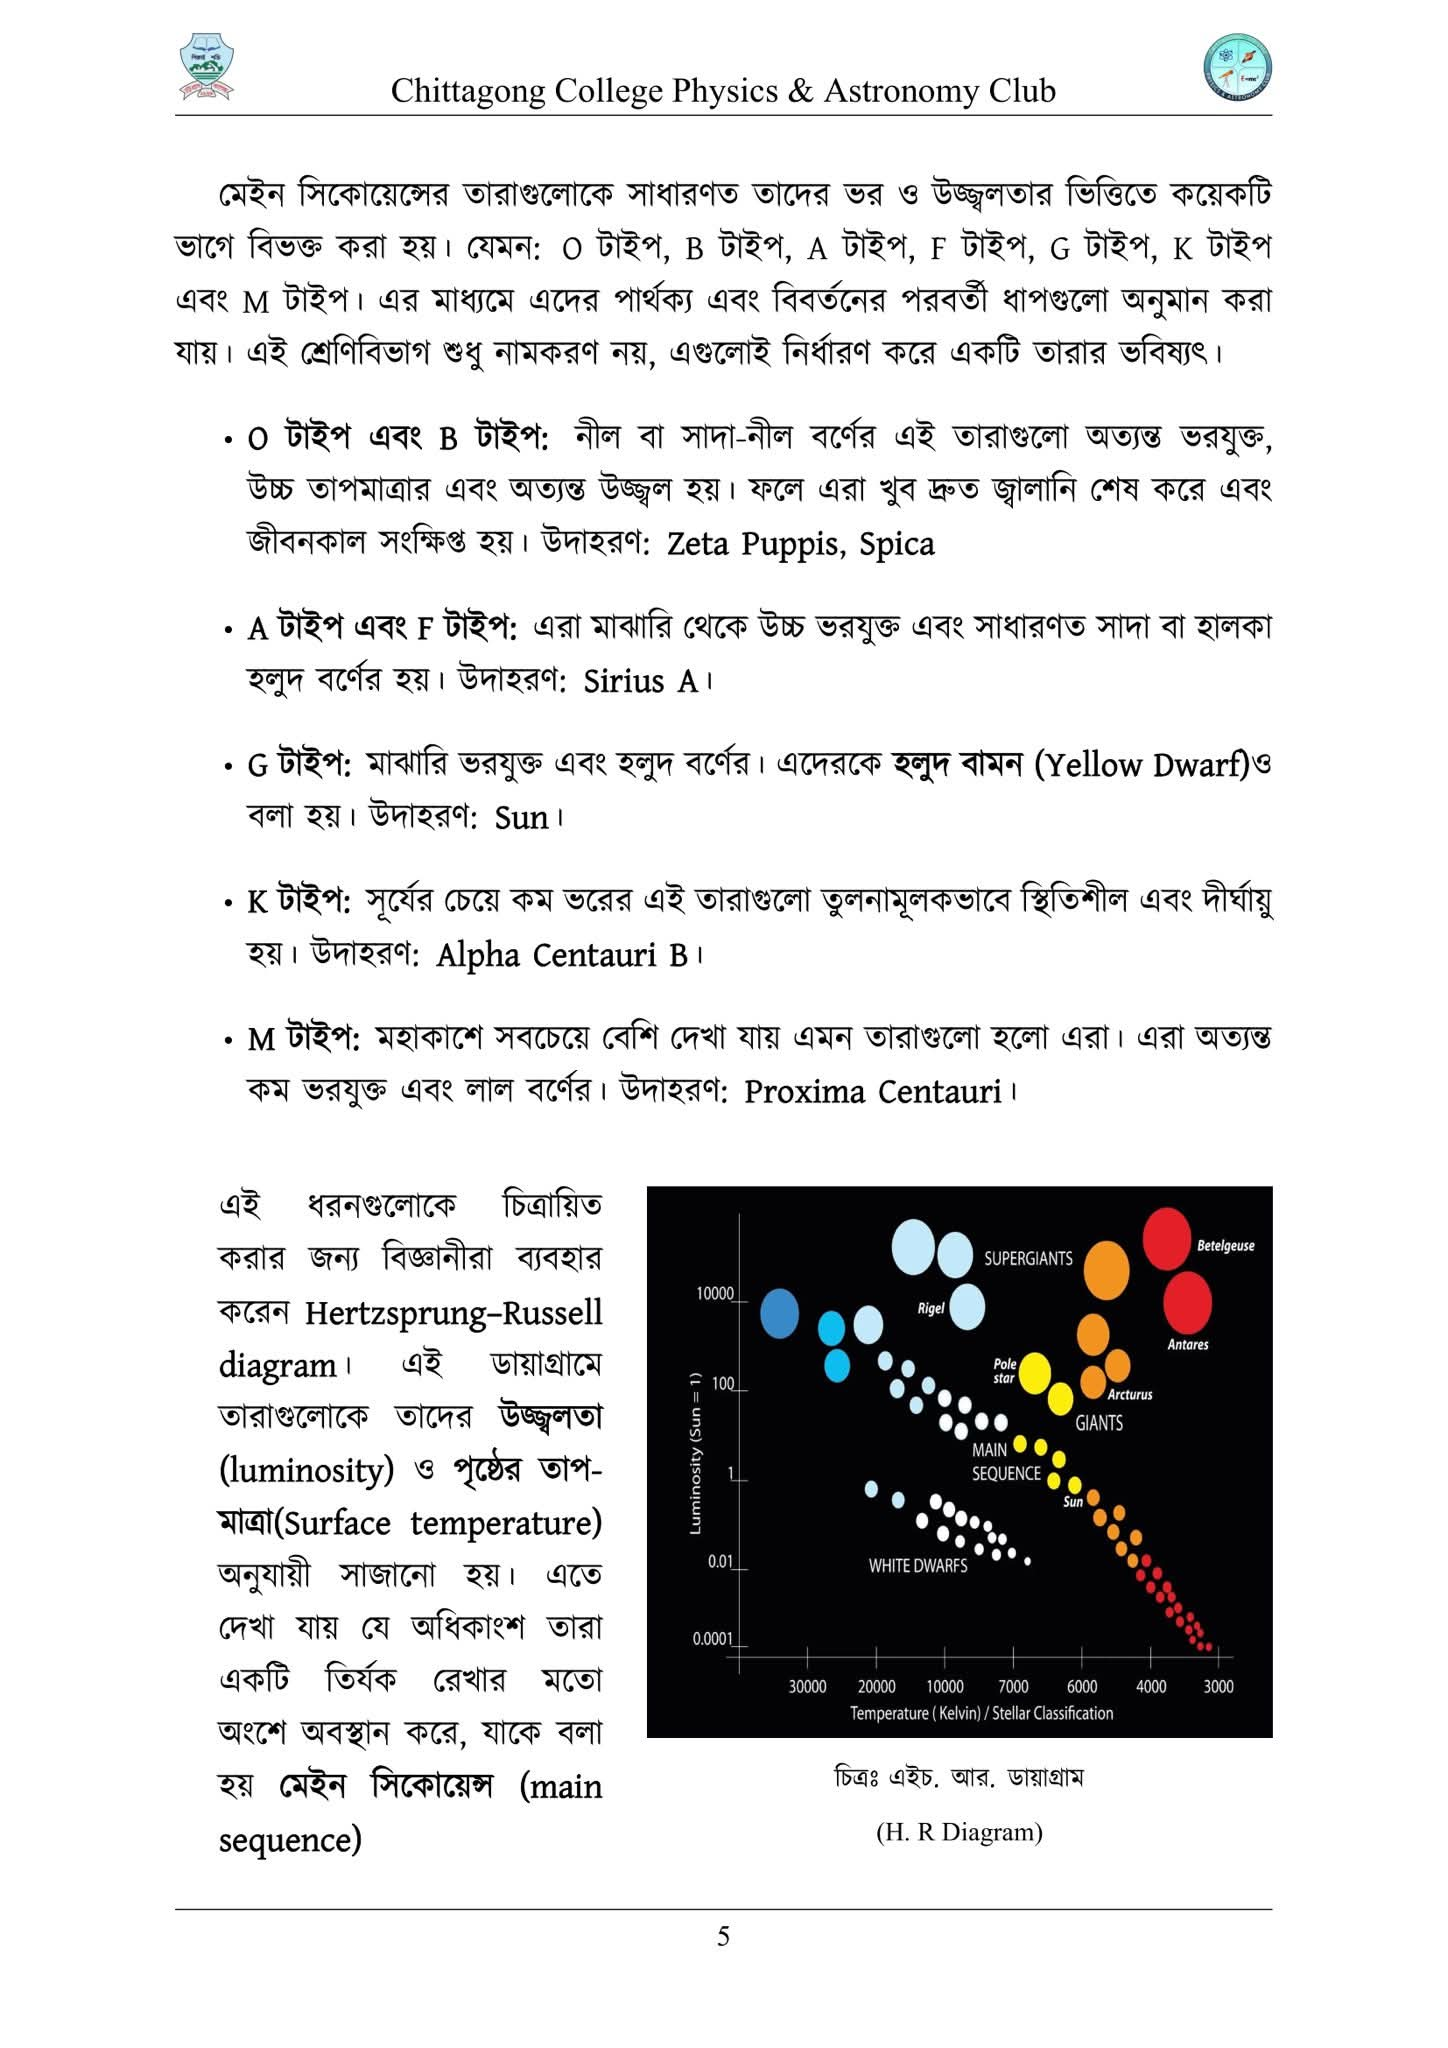
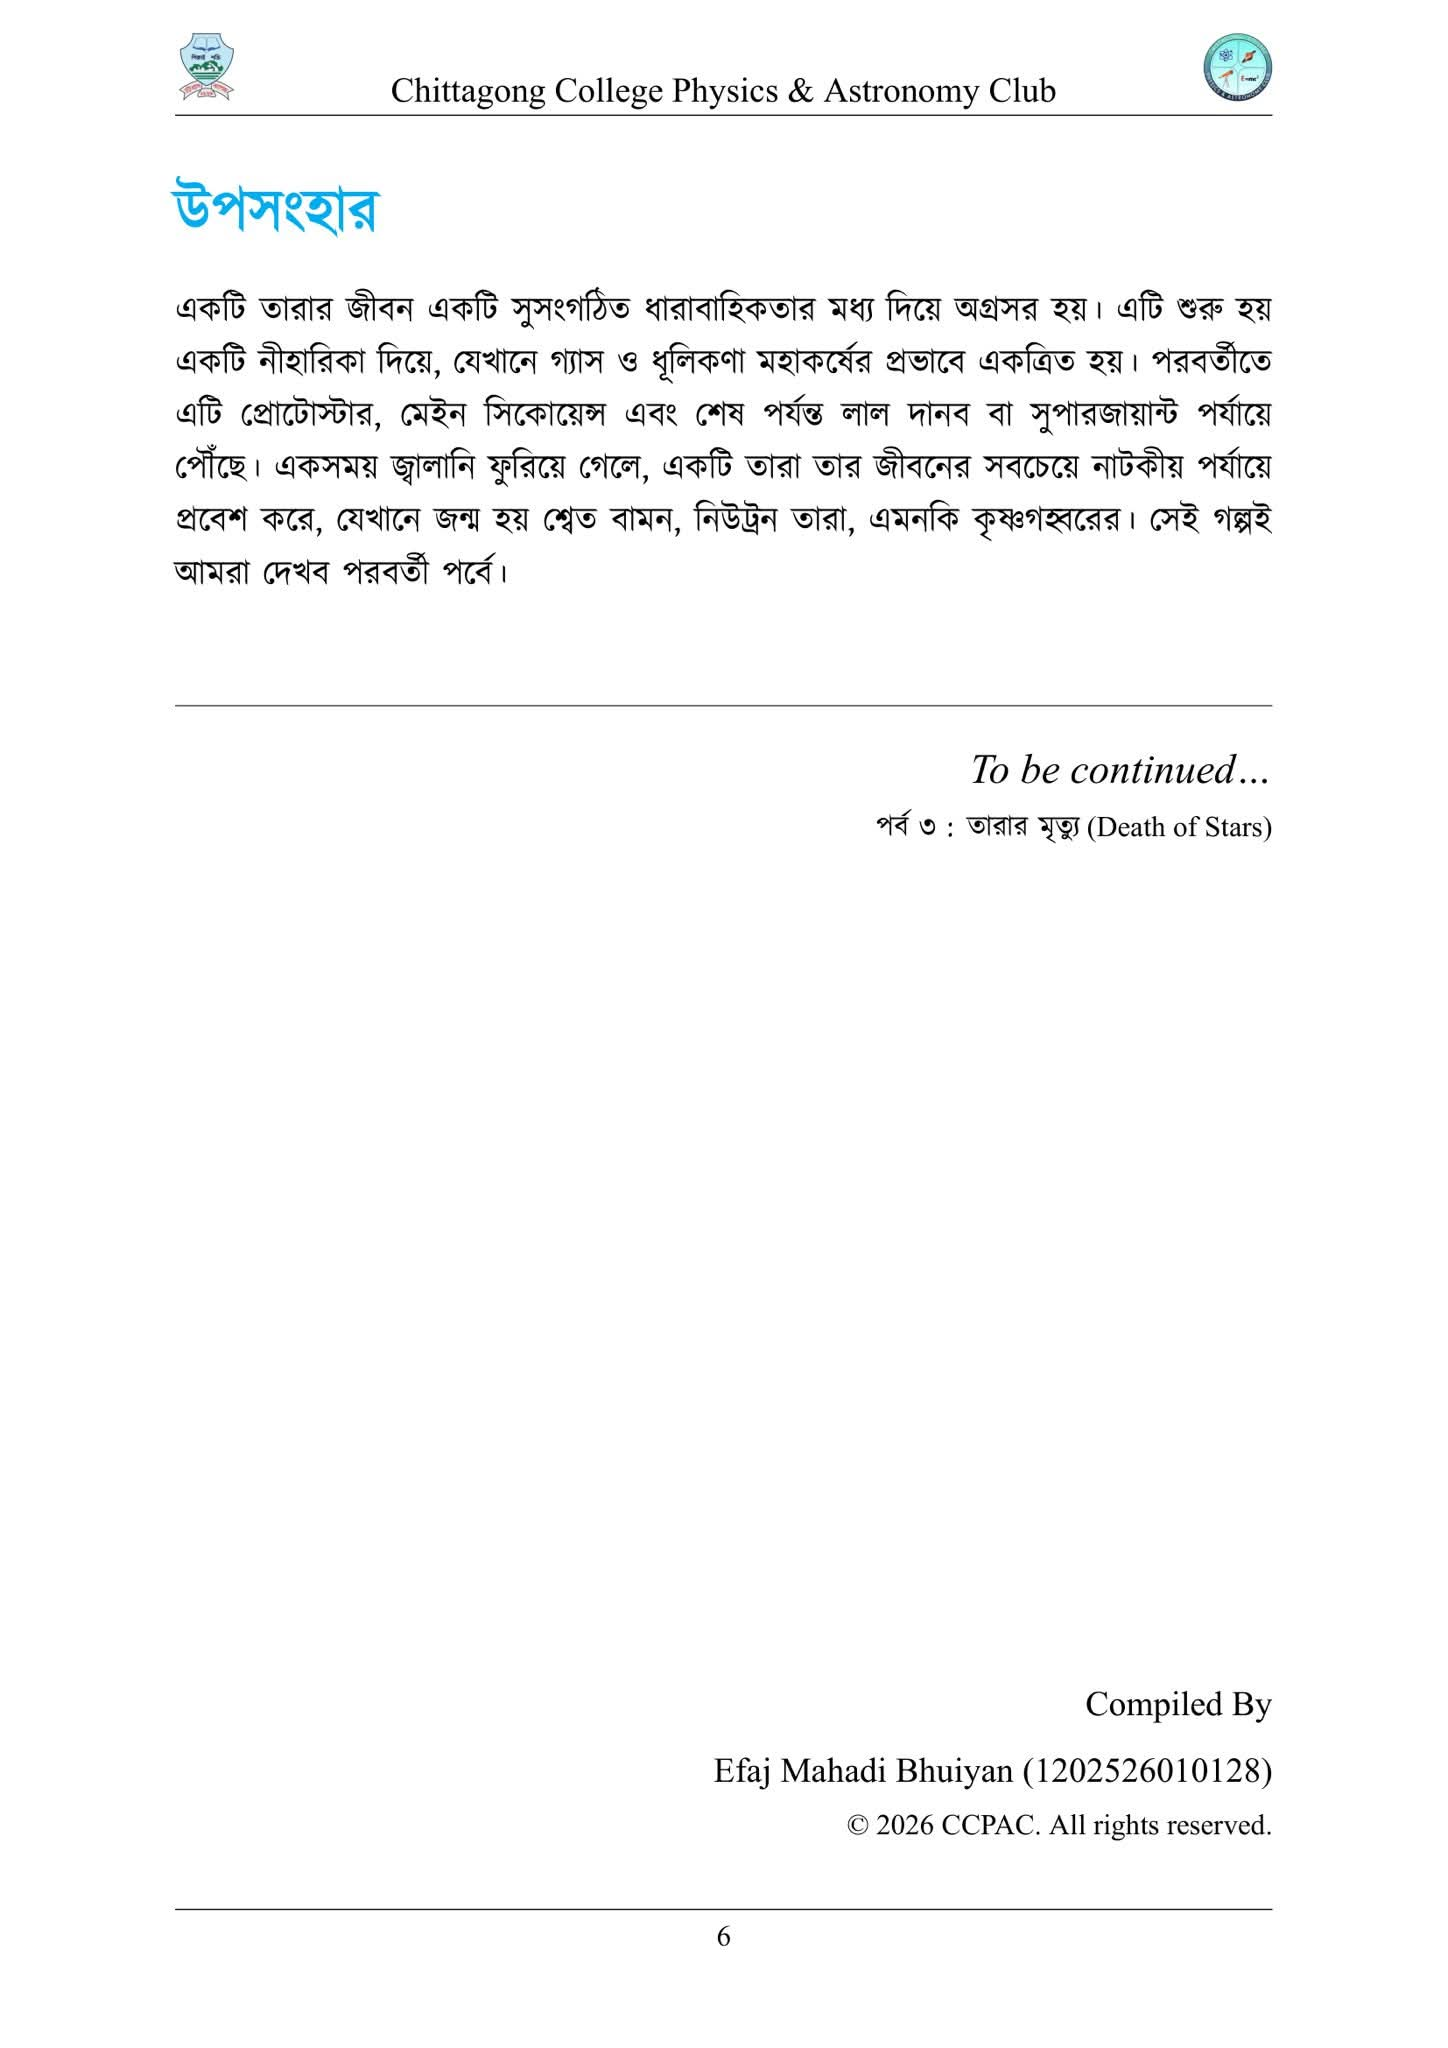
Refactor code structure for improved readability and maintainability

Changed region(s): [[0.1554, 0.5, 0.9012, 0.9062], [0.1243, 0.0625, 0.9012, 0.4688]]

diff --git a/src/data/updates.ts b/src/data/updates.ts
@@ -23,15 +23,15 @@ export const updatesData: Record<string, UpdateItem> = {
       "Tokens of Honour Conferred upon Honorable Principal, Vice Principal, and Moderator",
     date: "Date: 29-03-2026",
     images: ["/images/h1.jpeg", "/images/h2.jpeg", "/images/h3.jpeg"],
-    content: `Today, on behalf of the Executive Panel 2025–26 of Chattogram College Physics & Astronomy Club (CCPAC), tokens of honour were conferred upon Principal Prof. Mohammad Mozahidul Islam Chowdhury, Vice Principal Md. Shawkat Iqbal Faruqueee, and Moderator Md. Zahirul Islam in sincere recognition of their unwavering support.`,
+    content: `Today, on behalf of the Executive Panel 2025–26 of Chattogram College Physics & Astronomy Club (CCPAC), tokens of honour were conferred upon Principal Prof. Mohammad Mozahidul Islam Chowdhury, Vice Principal Md. Shawkat Iqbal Faruquee, and Moderator Md. Zahirul Islam in sincere recognition of their unwavering support.`,
   },
   "3": {
     id: "3",
     tag: "College Administration",
     title:
-      "Congratulating Md. Shawkat Iqbal Faruqueee on his appointment as Vice Principal",
+      "Congratulating Md. Shawkat Iqbal Faruquee on his appointment as Vice Principal",
     date: "Date: 11-01-2026",
     images: ["/images/vp.jpeg"],
-    content: `Today, Chittagong College Physics & Astronomy Club warmly congratulated Md. Shawkat Iqbal Faruqueee on his appointment as the new Vice Principal of Chittagong College.`,
+    content: `Today, Chittagong College Physics & Astronomy Club warmly congratulated Md. Shawkat Iqbal Faruquee on his appointment as the new Vice Principal of Chittagong College.`,
   },
 };
